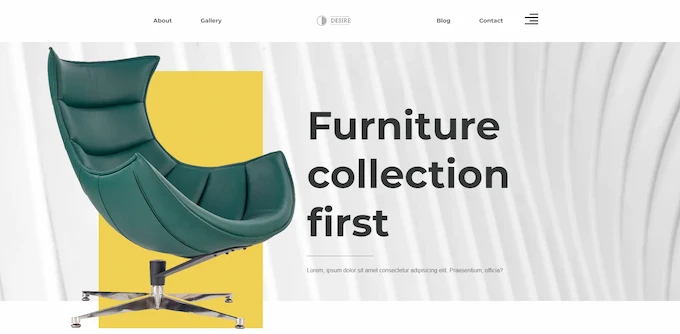
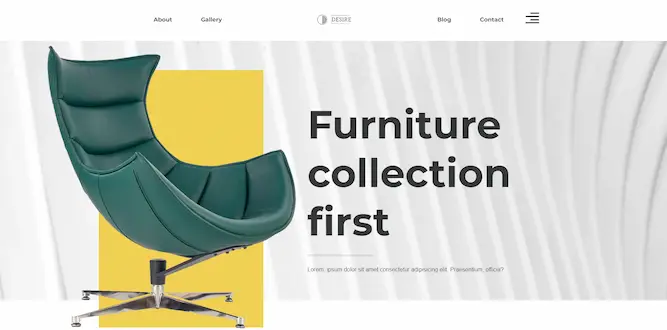
Оптимизация картинок, дополнен проект AdSkill

diff --git a/Readme.md b/Readme.md
@@ -1,2 +1,2 @@
 ## Описание: 
-Здесь расположены данные для для разных проектов. 
+Данные для портфолио 
